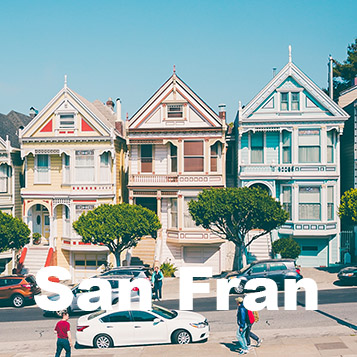
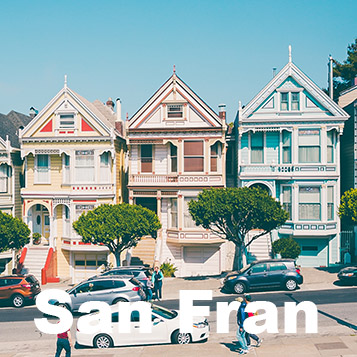
welcome page styling complete

Changed region(s): [[0.493, 0.7395, 0.8936, 0.9552], [0.0924, 0.7395, 0.4314, 0.9552]]

diff --git a/app/assets/stylesheets/application.scss b/app/assets/stylesheets/application.scss
@@ -228,6 +228,16 @@ a.forgot-password {
   color: #999;
 }
 
+a.thumbnail {
+  border: none;
+  box-shadow: 0px 15px 20px -10px #666;
+  padding: 0;
+}
+
+.thumbnails {
+  margin-top: -50px;
+}
+
 
 
 
